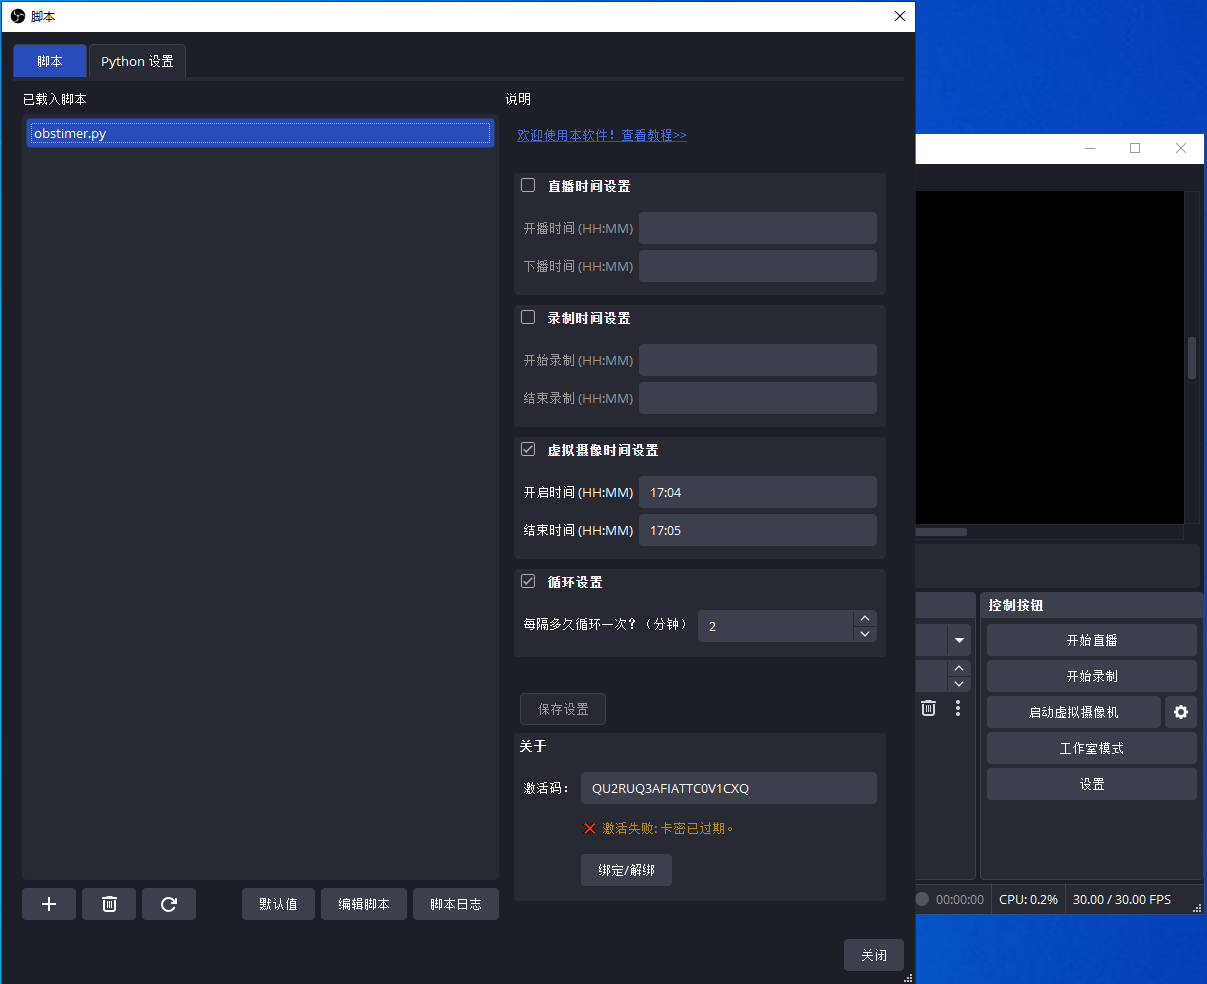
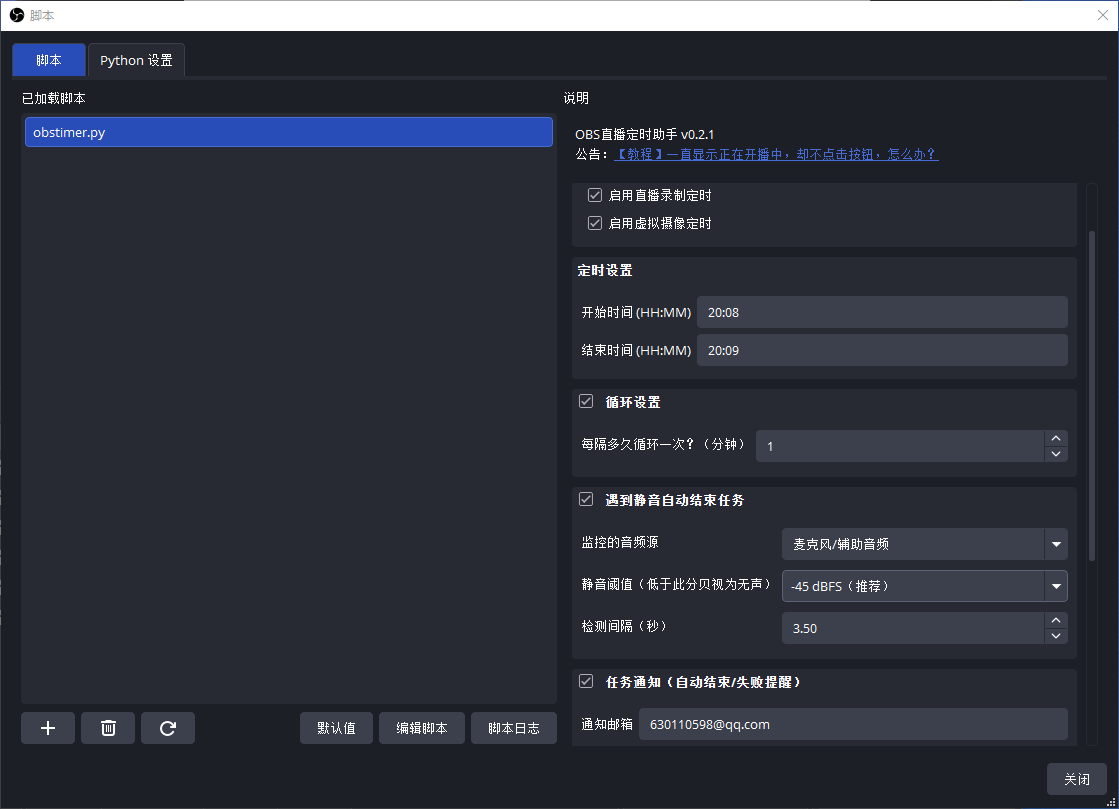
docs(projects): 更新 OBStimer 至 v0.2.1
- 功能特性更新：新增静音自动结束（推流 / 录制 / 摄像）与异常邮件通知，调整为以定时录制为核心使用场景
- 更新下载地址：蓝奏云与百度网盘新链接（obstimer_v0.2.1.zip），download 字段改为指向 CNB Releases
- 移除闲鱼购买入口；系统要求 OBS 版本提升至 32.0 以上
- 补充说明暂不支持自动获取推流码的原因；更新界面截图与标签

diff --git a/src/content/projects/obstimer.md b/src/content/projects/obstimer.md
@@ -3,10 +3,10 @@ title: 'OBS定时助手（OBStimer）'
 description: 'OBS Studio 上的定时脚本插件，通过调用 OBS Studio API 直接控制按钮，支持定时开关推流、录制、摄像机与无限循环。'
 pubDate: 2025-07-27
 updatedDate: 2025-07-27
-tags: ['OBS', '自动化', '直播', '脚本']
+tags: ['OBS', '自动化', '直播', '录制', '脚本']
 featured: true
 coverImage: '/projects/obstimer/cover.png'
-download: 'https://wwsm.lanzouo.com/incxS30yw58d'
+download: 'https://cnb.cool/yuzhiblue/Releases'
 purchase: 'https://e.tb.cn/h.hn7C4xIY8KYN4jH?tk=svvs4UuuEB0'
 lang: 'zh'
 i18nKey: 'obstimer'
@@ -17,17 +17,16 @@ draft: false
 
 OBS定时助手是 OBS Studio 上面的一个定时脚本插件。通过调用 OBS Studio API 直接控制按钮操作。使用简单，不会被拦截，稳定性更高。
 
-如果您使用 OBS 推流方式进行直播的话（无论是哪个平台都可以：抖音、快手、视频号、小红书、淘宝、B站等等，只要能获取到推流码就可以使用本脚本控制 OBS 开播和下播），这个插件将会非常适合您的直播场景。
+这个脚本的首要使用场景是定时录制功能，可以用于录课，录制会议，录制直播等场景。同时支持定时结束录制和静音自动结束录制的功能。使用起来非常方便。后期会考虑增加自动开始录制功能。
+
+如果您使用 OBS 推流方式进行直播的话（无论是哪个平台都可以：抖音、快手、视频号、小红书、淘宝、B站等等，只要能获取到推流码就可以使用本脚本控制 OBS 开播和下播），这个插件将会非常适合您的直播场景。唯一的遗憾是没有对接推流码，需要手动输入。（不同平台获取推流码的方式不同，造成这一步开发极其困难）
 
 ## 功能特性
 
-- 定时开播
-- 定时下播
-- 定时开启录制
-- 定时关闭录制
-- 定时开启摄像机
-- 定时关闭摄像机
-- 支持无限次循环功能
+- 定时开始、结束：推流、录制、摄像
+- 循环定时功能
+- 静音自动结束：推流、录制、摄像
+- 异常邮件通知功能
 
 ## 界面截图
 
@@ -35,13 +34,13 @@ OBS定时助手是 OBS Studio 上面的一个定时脚本插件。通过调用 O
 
 ## 下载地址
 
-- 蓝奏云：https://wwsm.lanzouo.com/incxS30yw58d （密码：`gy7u`）
-- 百度网盘：https://pan.baidu.com/s/1xda6-Il9oSKhniIjgMU0Nw?pwd=7tec （提取码：`7tec`，文件：`obstimer.zip`；复制内容后打开百度网盘手机 App 操作更方便）
+- 蓝奏云：https://wwbqm.lanzouv.com/iNLUj4a0559e
+- 百度网盘：通过网盘分享的文件：obstimer_v0.2.1.zip
+链接: https://pan.baidu.com/s/1p-GLBoiV4dM0ITa2pgaIkA?pwd=tjxk 提取码: tjxk 复制这段内容后打开百度网盘手机App，操作更方便哦
 
 ## 购买地址
 
 - 淘宝：https://e.tb.cn/h.hn7C4xIY8KYN4jH?tk=svvs4UuuEB0 （OBS定时助手 定时开关推流直播 定时录制定时打开摄像机 循环直播）
-- 闲鱼：https://m.tb.cn/h.hlKqYHl?tk=7GpO4Veuxvm （OBS定时助手脚本插件 支持定时开关推流直播，定时开关直播录）
 
 ## 使用说明
 
@@ -50,4 +49,4 @@ OBS定时助手是 OBS Studio 上面的一个定时脚本插件。通过调用 O
 ## 系统要求
 
 - 系统：X64 系统
-- OBS 版本：31.0 以上
+- OBS 版本：32.0 以上
